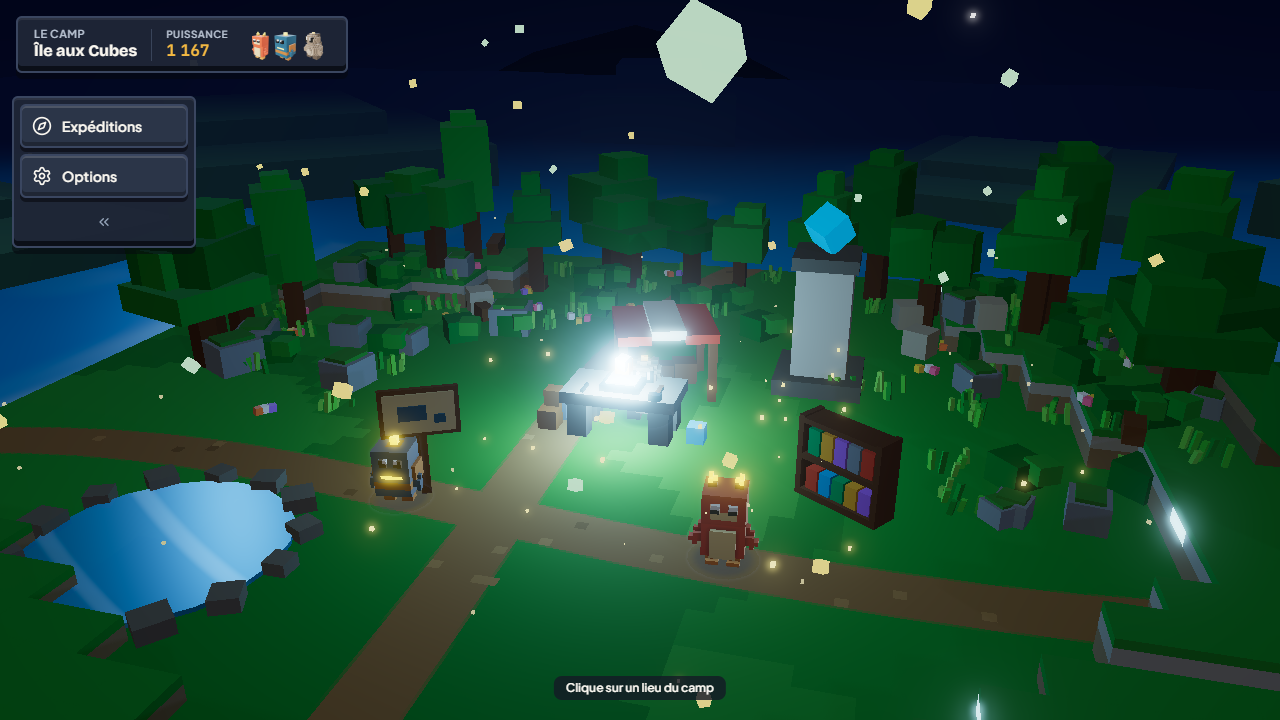
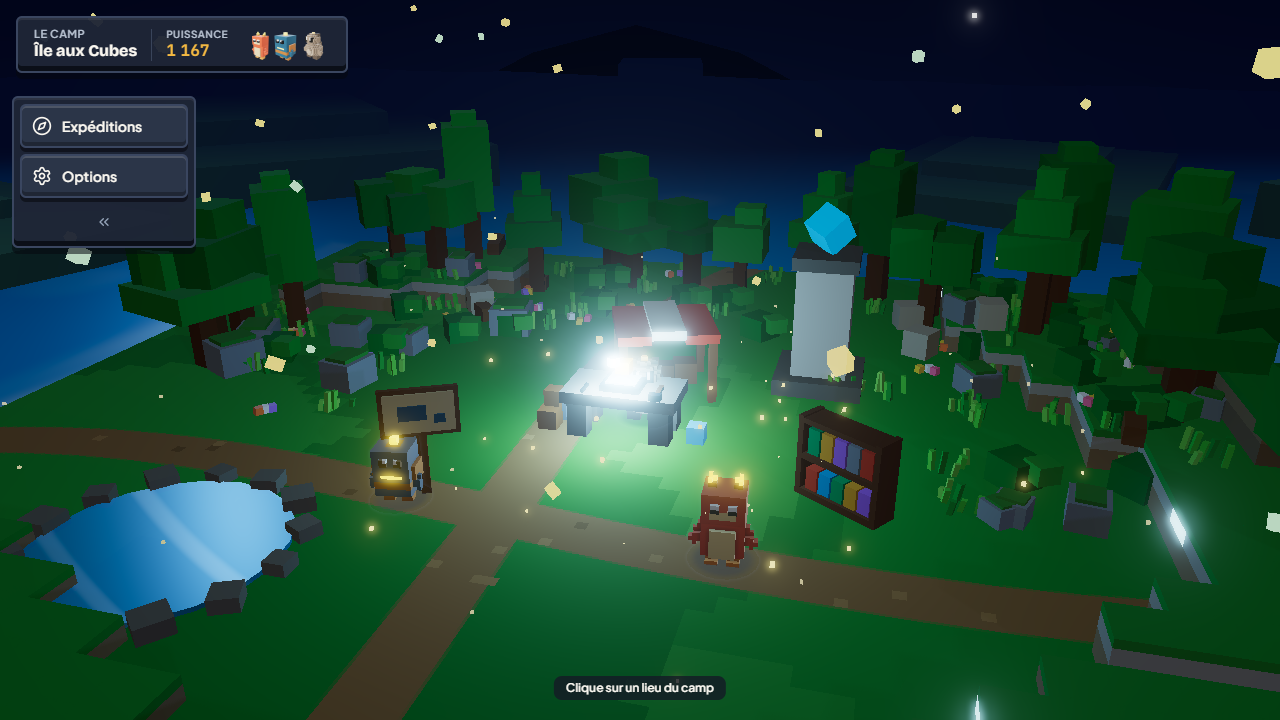
art3.3: brume legere au loin, plus marquee a l'aube (camp de la Prairie) ; la nuit les lueurs des creatures, les veines de cristal et les lucioles eclairent, remises a zero au depart en combat ; test : rouge des attaques annoncees distinct des teintes du decor ; capture camp-aube

diff --git a/src/game/engine/atmosphere.ts b/src/game/engine/atmosphere.ts
@@ -2,7 +2,7 @@
  * Ambiance : météo du biome, éclairage, éclairs et flash d'orage, cycle jour/nuit du camp.
  */
 import * as THREE from 'three';
-import { setDecorNight } from '../models/meadowDecor';
+import { isArtDecorOn, setDecorNight } from '../models/meadowDecor';
 import { setCreatureNight } from '../models/voxelSculpt';
 import { soundFx } from '../audio';
 import type { BiomeId } from '../types';
@@ -176,6 +176,12 @@ export function updateDayNight(self: VoxelEngine, dt: number): void {
   const f = raw * raw * (3 - 2 * raw);
   if (self.scene.background instanceof THREE.Color) self.scene.background.lerpColors(a.sky, b.sky, f);
   if (self.scene.fog) self.scene.fog.color.lerpColors(a.fog, b.fog, f);
+  // ART3 : brume légère au loin, plus marquée le matin (autour de l'aube) ; Prairie du sprint Art seulement
+  if (isArtDecorOn() && self.scene.fog instanceof THREE.Fog) {
+    const morning = Math.max(0, 1 - Math.min(self.campClock, 1 - self.campClock) / 0.14);
+    self.scene.fog.near = THREE.MathUtils.lerp(28, 18, morning);
+    self.scene.fog.far = THREE.MathUtils.lerp(78, 62, morning);
+  }
   self.keyLight.color.lerpColors(a.key, b.key, f);
   self.keyLight.intensity = THREE.MathUtils.lerp(a.keyI, b.keyI, f);
   self.baseHemiIntensity = THREE.MathUtils.lerp(a.hemiI, b.hemiI, f);

diff --git a/src/game/models/meadowDecor.ts b/src/game/models/meadowDecor.ts
@@ -105,6 +105,12 @@ export function buildMeadowGroundTexture(): THREE.CanvasTexture {
   return tex;
 }
 
+/**
+ * ART3 : teintes du décor épuré (sol, plateaux, couches des falaises). Tenues en phase avec le code ci-dessous ;
+ * art.test.ts vérifie que le rouge des attaques annoncées reste bien distinct de chacune.
+ */
+export const ART3_GROUND_TONES = ['#5DB04A', '#66B851', '#55A545', '#5FAE4B', '#664A2E', '#807A70', '#523B26', '#8CDBFA', '#B08A5A'];
+
 /** ART3 : lueur des veines de cristal (0 le jour, 1 la nuit), partagée par toutes les falaises. */
 const crystalNight = { value: 0 };
 
@@ -177,6 +183,7 @@ export function addMeadowArtDecor(env: THREE.Group, arenaRadius: number, isCamp:
   const rnd = seeded(isCamp ? 7 : 3);
   const flat = isCamp ? 10 : 14.5;
   const time = { value: 0 };
+  if (!isCamp) crystalNight.value = 0; // ART3 : pas de nuit en combat
   /**
    * ART2 : au camp, tout ce qui est haut (arbres, buissons, rochers) et les touffes passent du côté opposé à
    * la caméra (z négatif) : le bas et les côtés de l'écran restent dégagés. En combat, rien ne change.

diff --git a/src/game/art.test.ts b/src/game/art.test.ts
@@ -136,3 +136,15 @@ test('ART3 : ajouts seulement (dégradé de volume ≤ 10 %, bobines lumineuses)
     assert.equal(glowing, id === 'sparkube' || id === 'raicube', `${id} : bobines lumineuses`);
   }
 });
+
+test('ART3 : le rouge des attaques annoncées reste bien distinct de toutes les teintes du décor épuré', async () => {
+  const { ART3_GROUND_TONES } = await import('./models/meadowDecor');
+  const { DANGER } = await import('./styleGuide');
+  const rgb = (h: string) => [1, 3, 5].map((i) => parseInt(h.slice(i, i + 2), 16) / 255);
+  const d = rgb(DANGER);
+  for (const tone of ART3_GROUND_TONES) {
+    const c = rgb(tone);
+    const dist = Math.hypot(d[0] - c[0], d[1] - c[1], d[2] - c[2]);
+    assert.ok(dist >= 0.35, `${tone} : écart ${dist.toFixed(2)}`);
+  }
+});

diff --git a/src/game/engine/expedition.ts b/src/game/engine/expedition.ts
@@ -29,6 +29,7 @@ import { emitHudSnapshot } from './hud';
 import { triggerUltimate, updatePendingUltimateHits } from './skills';
 import type { CombatActor, CombatTelemetry, ExpeditionResult } from './types';
 import type { VoxelEngine } from '../VoxelEngine';
+import { setCreatureNight } from '../models/voxelSculpt';
 import { FR } from '../../i18n/fr';
 
 export function emptyTelemetry(): CombatTelemetry {
@@ -84,6 +85,7 @@ export function startExpedition(
   self.ultZoomTimer = 0;
   self.touchMoveX = 0;
   self.touchMoveZ = 0;
+  setCreatureNight(0); // ART3 : pas de nuit en combat, les lueurs reprennent leur force de jour
   resetLessonState(self);
   self.hazardsAvoided = 0;
   self.hazardHitsTaken = 0;
